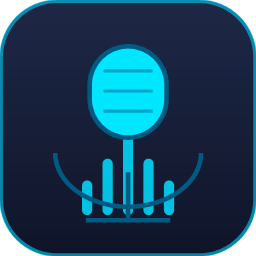
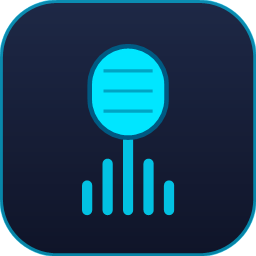
fix(IconForge): mic stand now joins the U-yoke at its lowest point
The original DrawMicrophone laid out the U-shaped yoke and the stem
independently:

    var arcRect = new RectangleF(
        cx - headW * 0.95f,
        headY + headH - headW * 0.5f,
        headW * 1.9f,
        headW * 1.4f);
    g.DrawArc(pen, arcRect, 0, 180);
    var stemTopY = headY + headH + headW * 0.45f;

…which meant the stem started inside the arc rather than at its
bottom. The arms of the U also crossed the stem rather than meeting
it cleanly, and the base bar overlapped with the U's lowest point —
so on variants A (Classic) and D (REC) the microphone stand looked
visibly broken.

Re-derive the geometry from intent:

  - the U's two visible endpoints (arm tops) sit at mid-head,
  - the U's lowest point is just below the head,
  - the stem starts EXACTLY at that lowest point and runs down to
    a single base bar.

Because Graphics.DrawArc(0, 180) draws the bottom half of an
ellipse, the arc-rect height is twice (yokeBottomY − armsTopY),
with the rect's top extending invisibly above the arms.

Add a withStand parameter and pass false from variant B (Studio):
its equalizer bars below the head already act as the visual ground,
so the redrawn stem would have crossed them.

Variant C is unaffected (no microphone), the other three regenerate
with a microphone stand that actually looks like one.

Changed region(s): [[0.1875, 0.5938, 0.8125, 0.875]]

diff --git a/tools/IconForge/Program.cs b/tools/IconForge/Program.cs
@@ -161,7 +161,7 @@ static GraphicsPath RoundedRect(float x, float y, float w, float h, float r)
     return path;
 }
 
-static void DrawMicrophone(Graphics g, int size, Color body, Color outline, float scaleY = 1f)
+static void DrawMicrophone(Graphics g, int size, Color body, Color outline, float scaleY = 1f, bool withStand = true)
 {
     var cx = size / 2f;
     var headW = size * 0.30f;
@@ -186,18 +186,36 @@ static void DrawMicrophone(Graphics g, int size, Color body, Color outline, floa
         }
     }
 
+    if (!withStand)
+    {
+        return;
+    }
+
     using (var pen = new Pen(outline, size * 0.018f))
     {
-        var arcRect = new RectangleF(
-            cx - headW * 0.95f,
-            headY + headH - headW * 0.5f,
-            headW * 1.9f,
-            headW * 1.4f);
-        g.DrawArc(pen, arcRect, 0, 180);
+        // Yoke (U-shape) that cradles the head. We draw the BOTTOM half of an ellipse
+        // (sweep 0..180), so its two visible endpoints — the "arm tops" — sit at the
+        // ellipse's vertical midline, and the lowest point of the U is at the rect's
+        // bottom edge.
+        //
+        // Geometry goal:
+        //   - arms reach up alongside the head to roughly mid-head height,
+        //   - bottom of the U sits just below the head,
+        //   - stem starts EXACTLY at the U's lowest point (no visual overlap).
+        var yokeWidth      = headW * 1.5f;
+        var armsTopY       = headY + headH * 0.55f;          // arms reach mid-head
+        var yokeBottomY    = headY + headH + headW * 0.45f;  // U bottom, just under head
+        var yokeHalfHeight = yokeBottomY - armsTopY;
+        var yokeRect = new RectangleF(
+            cx - yokeWidth / 2f,
+            armsTopY - yokeHalfHeight,                       // ellipse rect extends above
+            yokeWidth,
+            yokeHalfHeight * 2f);                            // only the bottom half is drawn
+        g.DrawArc(pen, yokeRect, 0, 180);
 
-        var stemTopY = headY + headH + headW * 0.45f;
-        var stemBottomY = size * 0.86f;
-        g.DrawLine(pen, cx, stemTopY, cx, stemBottomY);
+        // Stem starts at the U's bottom and runs straight down to the base bar.
+        var stemBottomY = size * 0.90f;
+        g.DrawLine(pen, cx, yokeBottomY, cx, stemBottomY);
         g.DrawLine(pen, cx - headW * 0.55f, stemBottomY, cx + headW * 0.55f, stemBottomY);
     }
 }
@@ -270,7 +288,8 @@ static void DrawStudio(Graphics g, int size)
         }
     }
 
-    DrawMicrophone(g, size, Color.FromArgb(0, 230, 255), Color.FromArgb(0, 90, 130), scaleY: 0.85f);
+    // No stand on Studio — the equalizer bars below act as the visual "ground".
+    DrawMicrophone(g, size, Color.FromArgb(0, 230, 255), Color.FromArgb(0, 90, 130), scaleY: 0.85f, withStand: false);
 }
 
 // ---- Variant C: warm gradient + speech bubble + waveform ----